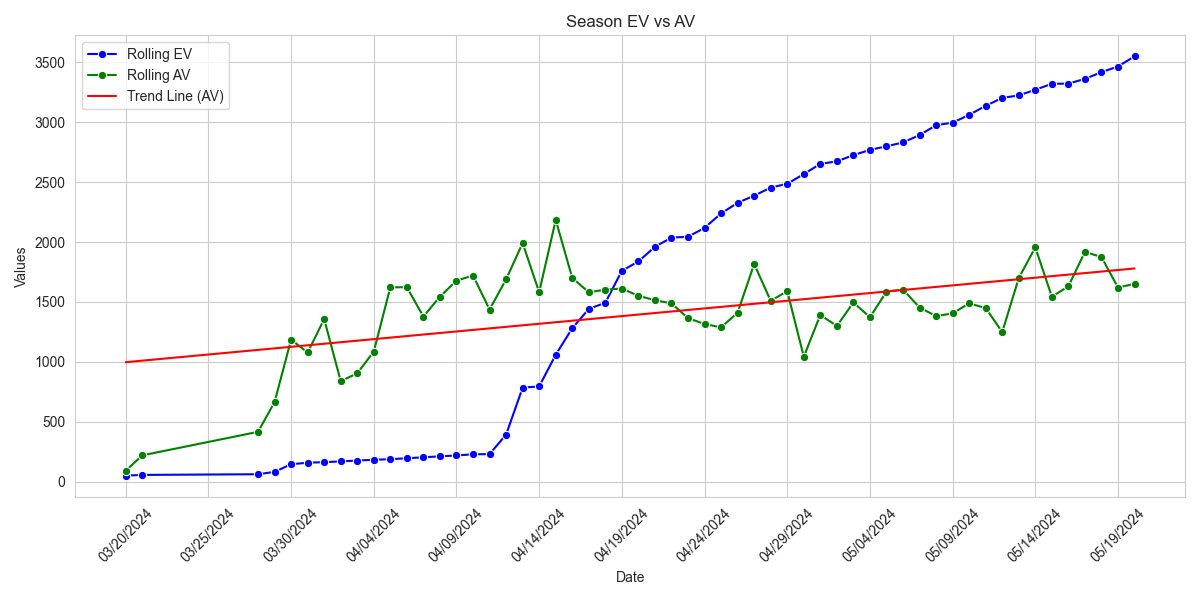
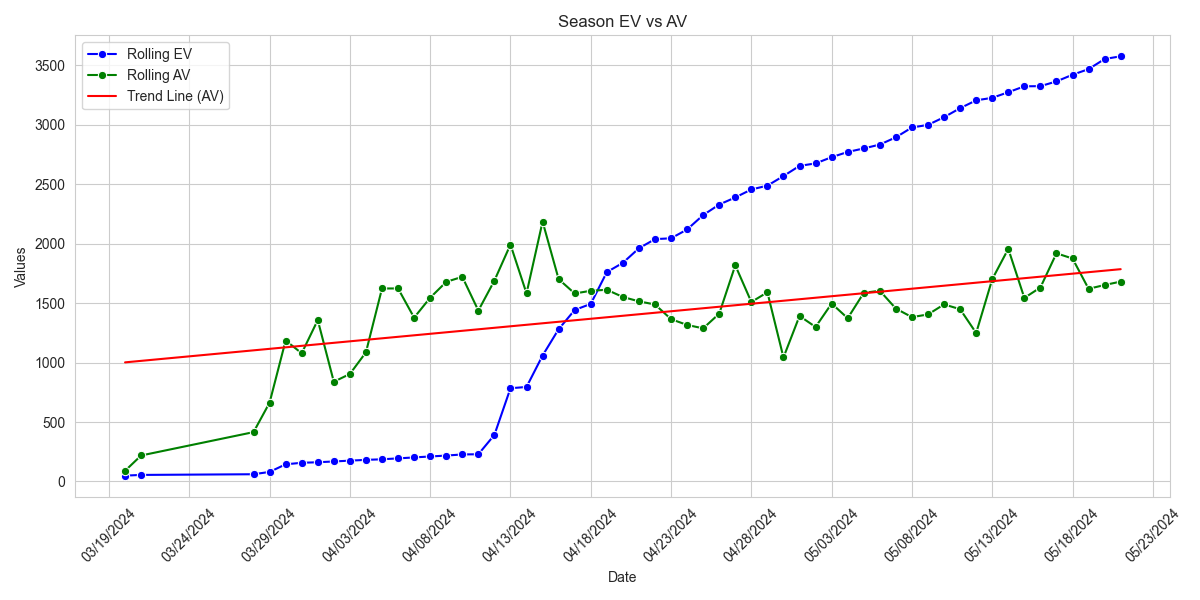
web

diff --git a/index.html b/index.html
@@ -1,1 +1,1 @@
-<html><head><meta name="viewport" content="width=device-width, initial-scale=1"><meta http-equiv="Cache-Control" content="no-cache, no-store, must-revalidate"><meta http-equiv="Pragma" content="no-cache"><meta http-equiv="Expires" content="0"><title>MLB Shit</title><link rel="stylesheet" type="text/css" href="styles.css"></head><body><p><b>Daily Picks</b></p><table><tr><th>Date</th><th>Team</th><th>Price</th><th>Bet</th><th>Win</th><th>WP</th><th>EV</th><th>Type</th><th>Result</th></tr><tr><td>05/21/2024</td><td><img src='https://www.mlbstatic.com/team-logos/158.svg' height=30 width=30></td><td>-135</td><td>$87.75</td><td>$65.00</td><td>57.8%</td><td>0.5%</td><td>Fav</td><td>W</td></td><tr><td>05/21/2024</td><td><img src='https://www.mlbstatic.com/team-logos/120.svg' height=30 width=30></td><td>+154</td><td>$72.75</td><td>$112.04</td><td>46.2%</td><td>12.6%</td><td>Dog</td><td>L</td></td><tr><td>05/21/2024</td><td><img src='https://www.mlbstatic.com/team-logos/111.svg' height=30 width=30></td><td>+120</td><td>$69.00</td><td>$82.80</td><td>45.8%</td><td>0.5%</td><td>Dog</td><td>W</td></td><tr><td>05/21/2024</td><td><img src='https://www.mlbstatic.com/team-logos/145.svg' height=30 width=30></td><td>+154</td><td>$64.25</td><td>$98.95</td><td>41.7%</td><td>3.8%</td><td>Dog</td><td>W</td></td><tr><td>05/21/2024</td><td><img src='https://www.mlbstatic.com/team-logos/115.svg' height=30 width=30></td><td>+114</td><td>$74.50</td><td>$84.93</td><td>49.0%</td><td>3.6%</td><td>Dog</td><td></td></td><tr><td>05/21/2024</td><td><img src='https://www.mlbstatic.com/team-logos/121.svg' height=30 width=30></td><td>+114</td><td>$70.75</td><td>$80.66</td><td>47.1%</td><td>0.6%</td><td>Dog</td><td>L</td></td><tr><td>05/21/2024</td><td><img src='https://www.mlbstatic.com/team-logos/138.svg' height=30 width=30></td><td>+136</td><td>$65.25</td><td>$88.74</td><td>43.0%</td><td>1.0%</td><td>Dog</td><td></td></td><tr><th colspan=9><B>SUMMARY: $139.75 in play to win $173.67</B></th></tr><tr><th colspan=9><B>LAST UPDATED: 05/21/2024 11:17 PM</B></th></tr></table><p><b>Monthly Totals</b></p><table><tr><th>Date</th><th>Profit</th><th>W/L</th><th>Favs</th><th>Dogs</th><th>Fav $</th><th>Dog $</th></tr><tr><td>05/01/2024</td><td>$348.92</td><td>8-4</td><td>4-1</td><td>4-3</td><td>$187.12</td><td>$161.80</td></td><tr><td>05/02/2024</td><td>$-92.44</td><td>1-2</td><td>0-1</td><td>1-1</td><td>$-94.75</td><td>$2.31</td></td><tr><td>05/03/2024</td><td>$197.01</td><td>7-5</td><td>3-1</td><td>4-4</td><td>$125.59</td><td>$71.42</td></td><tr><td>05/04/2024</td><td>$-123.54</td><td>4-6</td><td>1-1</td><td>3-5</td><td>$-32.70</td><td>$-90.84</td></td><tr><td>05/05/2024</td><td>$213.29</td><td>6-4</td><td>0-1</td><td>6-3</td><td>$-80.50</td><td>$293.79</td></td><tr><td>05/06/2024</td><td>$17.89</td><td>4-3</td><td>3-1</td><td>1-2</td><td>$83.64</td><td>$-65.75</td></td><tr><td>05/07/2024</td><td>$-150.23</td><td>4-5</td><td>3-3</td><td>1-2</td><td>$-94.63</td><td>$-55.60</td></td><tr><td>05/08/2024</td><td>$-71.74</td><td>5-6</td><td>4-2</td><td>1-4</td><td>$119.06</td><td>$-190.80</td></td><tr><td>05/09/2024</td><td>$22.55</td><td>3-2</td><td>1-2</td><td>2-0</td><td>$-141.33</td><td>$163.88</td></td><tr><td>05/10/2024</td><td>$84.48</td><td>8-6</td><td>5-4</td><td>3-2</td><td>$-58.90</td><td>$143.38</td></td><tr><td>05/11/2024</td><td>$-40.33</td><td>6-6</td><td>5-3</td><td>1-3</td><td>$63.27</td><td>$-103.60</td></td><tr><td>05/12/2024</td><td>$-200.12</td><td>4-5</td><td>3-3</td><td>1-2</td><td>$-117.30</td><td>$-82.82</td></td><tr><td>05/13/2024</td><td>$451.92</td><td>7-1</td><td>3-0</td><td>4-1</td><td>$197.94</td><td>$253.98</td></td><tr><td>05/14/2024</td><td>$255.63</td><td>5-1</td><td>3-1</td><td>2-0</td><td>$87.08</td><td>$168.55</td></td><tr><td>05/15/2024</td><td>$-412.51</td><td>3-9</td><td>0-2</td><td>3-7</td><td>$-175.75</td><td>$-236.76</td></td><tr><td>05/16/2024</td><td>$87.43</td><td>1-0</td><td>0</td><td>1-0</td><td>$0.00</td><td>$87.43</td></td><tr><td>05/17/2024</td><td>$287.48</td><td>5-2</td><td>2-1</td><td>3-1</td><td>$37.50</td><td>$249.98</td></td><tr><td>05/18/2024</td><td>$-43.65</td><td>5-5</td><td>2-3</td><td>3-2</td><td>$-172.94</td><td>$129.29</td></td><tr><td>05/19/2024</td><td>$-254.69</td><td>3-6</td><td>1-1</td><td>2-5</td><td>$-43.63</td><td>$-211.06</td></td><tr><td>05/20/2024</td><td>$31.84</td><td>4-4</td><td>0-2</td><td>4-2</td><td>$-181.00</td><td>$212.84</td></td><tr><td>05/21/2024</td><td>$103.25</td><td>3-2</td><td>1-0</td><td>2-2</td><td>$65.00</td><td>$38.25</td></td><tr><th colspan=7>TOTALS</th></tr><tr><th colspan=2>Monthly Profit</th><th colspan=2>W%</th><th>Fav W%</th><th>Dog W%</th><th>Predicted Upset W%</th></tr><tr><td colspan=2>$712.44</td><td colspan=2>53.3%</td><td>57.1%</td><td>50.5%</td><td>54.8%</td></tr></table><p><b>Season Totals</b></p><table width="30%"><tr><th width="25%">Month</th><th width="25%">Profit</th><th width="25%" colspan=2>Bankroll Growth</th></tr><tr><td>March</td><td>$1,077.72</td><td colspan=2>13.4715%</td></td><tr><td>April</td><td>$-35.26</td><td colspan=2>-0.44075%</td></td><tr><td>May</td><td>$712.44</td><td colspan=2>8.9055%</td></td><tr><td><b><i>TOTAL</i></b></td><td><b><i>$1,754.90</i></b></td><td colspan=2><b><i>21.93625%</i></b></td></td><tr><th colspan=4>Performance</th></tr><tr><th>Season W%</th><th>Fav W%</th><th>Dog W%</th><th>Predicted Upset W%</th></tr><tr><td>53.1%</td><td>58.6%</td><td>48.7%</td><td>51.2%</td></tr></table><p><table><tr><td><img class="chart" src="images/ev_graph.png"></td></tr></table></p></body></html>
+<html><head><meta name="viewport" content="width=device-width, initial-scale=1"><meta http-equiv="Cache-Control" content="no-cache, no-store, must-revalidate"><meta http-equiv="Pragma" content="no-cache"><meta http-equiv="Expires" content="0"><title>MLB Shit</title><link rel="stylesheet" type="text/css" href="styles.css"></head><body><p><b>Daily Picks</b></p><table><tr><th>Date</th><th>Team</th><th>Price</th><th>Bet</th><th>Win</th><th>WP</th><th>EV</th><th>Type</th><th>Result</th></tr><tr><td>05/22/2024</td><td><img src='https://www.mlbstatic.com/team-logos/120.svg' height=30 width=30></td><td>+114</td><td>$77.00</td><td>$87.78</td><td>50.2%</td><td>5.7%</td><td>Dog</td><td></td></td><tr><td>05/22/2024</td><td><img src='https://www.mlbstatic.com/team-logos/108.svg' height=30 width=30></td><td>+160</td><td>$74.25</td><td>$118.80</td><td>46.7%</td><td>15.9%</td><td>Dog</td><td></td></td><tr><td>05/22/2024</td><td><img src='https://www.mlbstatic.com/team-logos/158.svg' height=30 width=30></td><td>-135</td><td>$92.75</td><td>$68.70</td><td>60.2%</td><td>4.4%</td><td>Fav</td><td></td></td><tr><td>05/22/2024</td><td><img src='https://www.mlbstatic.com/team-logos/113.svg' height=30 width=30></td><td>+105</td><td>$73.25</td><td>$76.91</td><td>48.8%</td><td>0.0%</td><td>Dog</td><td></td></td><tr><td>05/22/2024</td><td><img src='https://www.mlbstatic.com/team-logos/143.svg' height=30 width=30></td><td>-135</td><td>$90.75</td><td>$67.22</td><td>59.2%</td><td>2.8%</td><td>Fav</td><td></td></td><tr><td>05/22/2024</td><td><img src='https://www.mlbstatic.com/team-logos/136.svg' height=30 width=30></td><td>+136</td><td>$66.00</td><td>$89.76</td><td>43.5%</td><td>1.8%</td><td>Dog</td><td></td></td><tr><td>05/22/2024</td><td><img src='https://www.mlbstatic.com/team-logos/144.svg' height=30 width=30></td><td>-135</td><td>$88.50</td><td>$65.56</td><td>58.2%</td><td>1.2%</td><td>Fav</td><td></td></td><tr><th colspan=9><B>SUMMARY: $562.50 in play to win $574.73</B></th></tr><tr><th colspan=9><B>LAST UPDATED: 05/22/2024 08:30 AM</B></th></tr></table><p><b>Monthly Totals</b></p><table><tr><th>Date</th><th>Profit</th><th>W/L</th><th>Favs</th><th>Dogs</th><th>Fav $</th><th>Dog $</th></tr><tr><td>05/01/2024</td><td>$348.92</td><td>8-4</td><td>4-1</td><td>4-3</td><td>$187.12</td><td>$161.80</td></td><tr><td>05/02/2024</td><td>$-92.44</td><td>1-2</td><td>0-1</td><td>1-1</td><td>$-94.75</td><td>$2.31</td></td><tr><td>05/03/2024</td><td>$197.01</td><td>7-5</td><td>3-1</td><td>4-4</td><td>$125.59</td><td>$71.42</td></td><tr><td>05/04/2024</td><td>$-123.54</td><td>4-6</td><td>1-1</td><td>3-5</td><td>$-32.70</td><td>$-90.84</td></td><tr><td>05/05/2024</td><td>$213.29</td><td>6-4</td><td>0-1</td><td>6-3</td><td>$-80.50</td><td>$293.79</td></td><tr><td>05/06/2024</td><td>$17.89</td><td>4-3</td><td>3-1</td><td>1-2</td><td>$83.64</td><td>$-65.75</td></td><tr><td>05/07/2024</td><td>$-150.23</td><td>4-5</td><td>3-3</td><td>1-2</td><td>$-94.63</td><td>$-55.60</td></td><tr><td>05/08/2024</td><td>$-71.74</td><td>5-6</td><td>4-2</td><td>1-4</td><td>$119.06</td><td>$-190.80</td></td><tr><td>05/09/2024</td><td>$22.55</td><td>3-2</td><td>1-2</td><td>2-0</td><td>$-141.33</td><td>$163.88</td></td><tr><td>05/10/2024</td><td>$84.48</td><td>8-6</td><td>5-4</td><td>3-2</td><td>$-58.90</td><td>$143.38</td></td><tr><td>05/11/2024</td><td>$-40.33</td><td>6-6</td><td>5-3</td><td>1-3</td><td>$63.27</td><td>$-103.60</td></td><tr><td>05/12/2024</td><td>$-200.12</td><td>4-5</td><td>3-3</td><td>1-2</td><td>$-117.30</td><td>$-82.82</td></td><tr><td>05/13/2024</td><td>$451.92</td><td>7-1</td><td>3-0</td><td>4-1</td><td>$197.94</td><td>$253.98</td></td><tr><td>05/14/2024</td><td>$255.63</td><td>5-1</td><td>3-1</td><td>2-0</td><td>$87.08</td><td>$168.55</td></td><tr><td>05/15/2024</td><td>$-412.51</td><td>3-9</td><td>0-2</td><td>3-7</td><td>$-175.75</td><td>$-236.76</td></td><tr><td>05/16/2024</td><td>$87.43</td><td>1-0</td><td>0</td><td>1-0</td><td>$0.00</td><td>$87.43</td></td><tr><td>05/17/2024</td><td>$287.48</td><td>5-2</td><td>2-1</td><td>3-1</td><td>$37.50</td><td>$249.98</td></td><tr><td>05/18/2024</td><td>$-43.65</td><td>5-5</td><td>2-3</td><td>3-2</td><td>$-172.94</td><td>$129.29</td></td><tr><td>05/19/2024</td><td>$-254.69</td><td>3-6</td><td>1-1</td><td>2-5</td><td>$-43.63</td><td>$-211.06</td></td><tr><td>05/20/2024</td><td>$31.84</td><td>4-4</td><td>0-2</td><td>4-2</td><td>$-181.00</td><td>$212.84</td></td><tr><td>05/21/2024</td><td>$28.75</td><td>3-3</td><td>1-0</td><td>2-3</td><td>$65.00</td><td>$-36.25</td></td><tr><th colspan=7>TOTALS</th></tr><tr><th colspan=2>Monthly Profit</th><th colspan=2>W%</th><th>Fav W%</th><th>Dog W%</th><th>Predicted Upset W%</th></tr><tr><td colspan=2>$637.94</td><td colspan=2>53.0%</td><td>57.1%</td><td>50.0%</td><td>54.8%</td></tr></table><p><b>Season Totals</b></p><table width="30%"><tr><th width="25%">Month</th><th width="25%">Profit</th><th width="25%" colspan=2>Bankroll Growth</th></tr><tr><td>March</td><td>$1,077.72</td><td colspan=2>13.4715%</td></td><tr><td>April</td><td>$-35.26</td><td colspan=2>-0.44075%</td></td><tr><td>May</td><td>$637.94</td><td colspan=2>7.97425%</td></td><tr><td><b><i>TOTAL</i></b></td><td><b><i>$1,680.40</i></b></td><td colspan=2><b><i>21.005%</i></b></td></td><tr><th colspan=4>Performance</th></tr><tr><th>Season W%</th><th>Fav W%</th><th>Dog W%</th><th>Predicted Upset W%</th></tr><tr><td>53.0%</td><td>58.6%</td><td>48.6%</td><td>51.2%</td></tr></table><p><table><tr><td><img class="chart" src="images/ev_graph.png"></td></tr></table></p></body></html>
